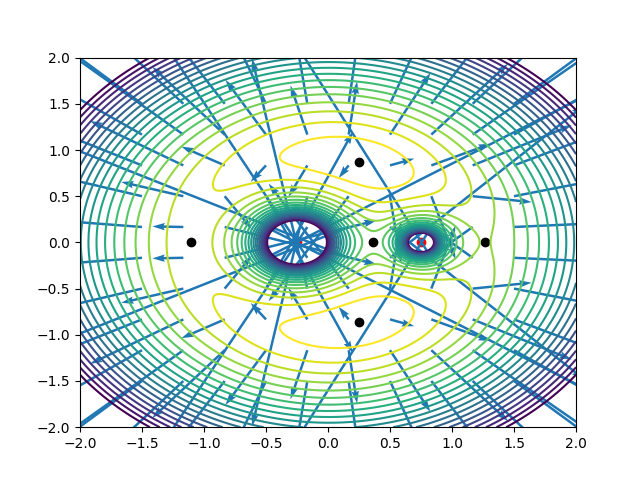
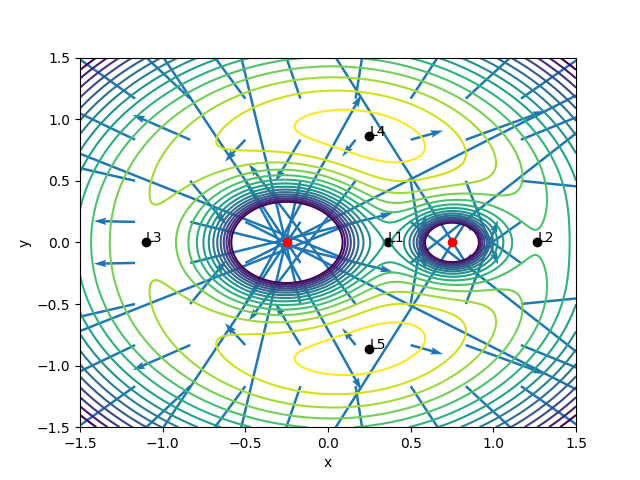
hw 1 code done

diff --git a/homework_one.py b/homework_one.py
@@ -24,8 +24,8 @@ at each grid point.
 """
 
 #hardwire grid dimensions
-grid_x = np.linspace(-2, 2, 500)
-grid_y = np.linspace(-2, 2, 500)
+grid_x = np.linspace(-1.5, 1.5, 500)
+grid_y = np.linspace(-1.5, 1.5, 500)
 
 grid_x_small = np.linspace(-1.5, 1.5, 10)
 grid_y_small = np.linspace(-1.5, 1.5, 10)
@@ -79,20 +79,20 @@ L2_x = bisection_xaxis(acceleration, m1, m2, d, x2 + 0.001, 2, tol)
 L4_y = bisection_yaxis(acceleration, m1, m2, d, 0, 2, tol, x) 
 L5_y = bisection_yaxis(acceleration, m1, m2, d, -2, 0, tol, x)
 
-
 # plot
 fig, ax = plt.subplots()
 min_level = np.quantile(Z, 0.05)
 max_level = np.quantile(Z, 0.95)
-levels = np.linspace(min_level, max_level, 20)
-ax.scatter([-(m2/m)*d, (m1/m)*d], [0,0], color = 'r', label = "bodies")
-ax.scatter(L1_x, 0, color = 'k')
-ax.scatter(L2_x, 0, color = 'k')
-ax.scatter(L3_x, 0, color = 'k')
-ax.scatter(x, L4_y, color = 'k')
-ax.scatter(x, L5_y, color = 'k')
+levels = np.linspace(min_level, max_level, 15)
 ax.contour(X, Y, Z, levels=levels) #potential
 ax.quiver(X_small, Y_small, gravity_x, gravity_y, color="C0", angles='xy', scale_units='xy', scale=4, width=.005) #gravity
+ax.scatter([-(m2/m)*d, (m1/m)*d], [0,0], color = 'r', label = "bodies")
+ax.scatter([L1_x,L2_x,L3_x,x, x], [0,0,0,L4_y, L5_y], color = 'k')
+L_labels = ["L1", "L2", "L3", "L4", "L5"]
+for i, txt in enumerate(L_labels):
+    ax.annotate(txt, ([L1_x,L2_x,L3_x,x, x][i], [0,0,0,L4_y, L5_y][i]))
+ax.set_xlabel("x")
+ax.set_ylabel("y")
 plt.savefig("Figures/homework_one/case_one.png")
 plt.show()
 
@@ -134,15 +134,16 @@ L5_y = bisection_yaxis(acceleration, m1, m2, d, -2, 0, tol, x)
 fig, ax = plt.subplots()
 min_level = np.quantile(Z, 0.05)
 max_level = np.quantile(Z, 0.95)
-levels = np.linspace(min_level, max_level, 20)
-ax.scatter([-(m2/m)*d, (m1/m)*d], [0,0], color = 'r', label = "bodies")
-ax.scatter(L1_x, 0, color = 'k')
-ax.scatter(L2_x, 0, color = 'k')
-ax.scatter(L3_x, 0, color = 'k')
-ax.scatter(x, L4_y, color = 'k')
-ax.scatter(x, L5_y, color = 'k')
+levels = np.linspace(min_level, max_level, 15)
 ax.contour(X, Y, Z, levels=levels) 
 ax.quiver(X_small, Y_small, gravity_x, gravity_y, color="C0", angles='xy', scale_units='xy', scale=4, width=.005)
+ax.scatter([-(m2/m)*d, (m1/m)*d], [0,0], color = 'r', label = "bodies")
+ax.scatter([L1_x,L2_x,L3_x,x, x], [0,0,0,L4_y, L5_y], color = 'k')
+L_labels = ["L1", "L2", "L3", "L4", "L5"]
+for i, txt in enumerate(L_labels):
+    ax.annotate(txt, ([L1_x,L2_x,L3_x,x, x][i], [0,0,0,L4_y, L5_y][i]))
+ax.set_xlabel("x")
+ax.set_ylabel("y")
 plt.savefig("Figures/homework_one/case_two.png")
 plt.show()
 

diff --git a/A527_package/JWST.py b/A527_package/JWST.py
@@ -41,7 +41,7 @@ def bisection_xaxis(f, m1, m2, d, a, b, tol):
     return c
 
 def bisection_yaxis(f, m1, m2, d, a, b, tol, x):
-#search along the x = (x1 + x2)/2axis for the L4 and L5 points
+#search along the x = (x1 + x2)/2 line for the L4 and L5 points
     c = (a+b)/2.0
     while (b-a)/2.0 > tol:
         if sum(list(f(m1, m2, d, x, c))) == 0:
